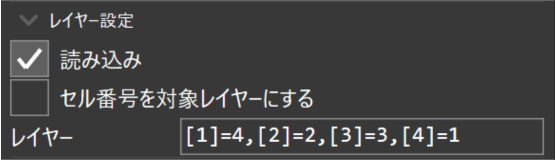
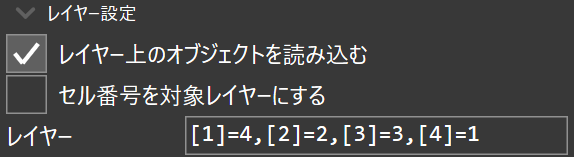
docs: 動作確認バージョンを更新、説明用画像の更新

diff --git a/README.md b/README.md
@@ -14,7 +14,7 @@
 
 [AviUtl ExEdit2](https://spring-fragrance.mints.ne.jp/aviutl/)
 
-- `beta50` 以降必須。`2.1.3a` で動作確認済み。
+- `2.1.10` 以降必須。`2.1.8` で動作確認済み。
 
 ## インストール
 
